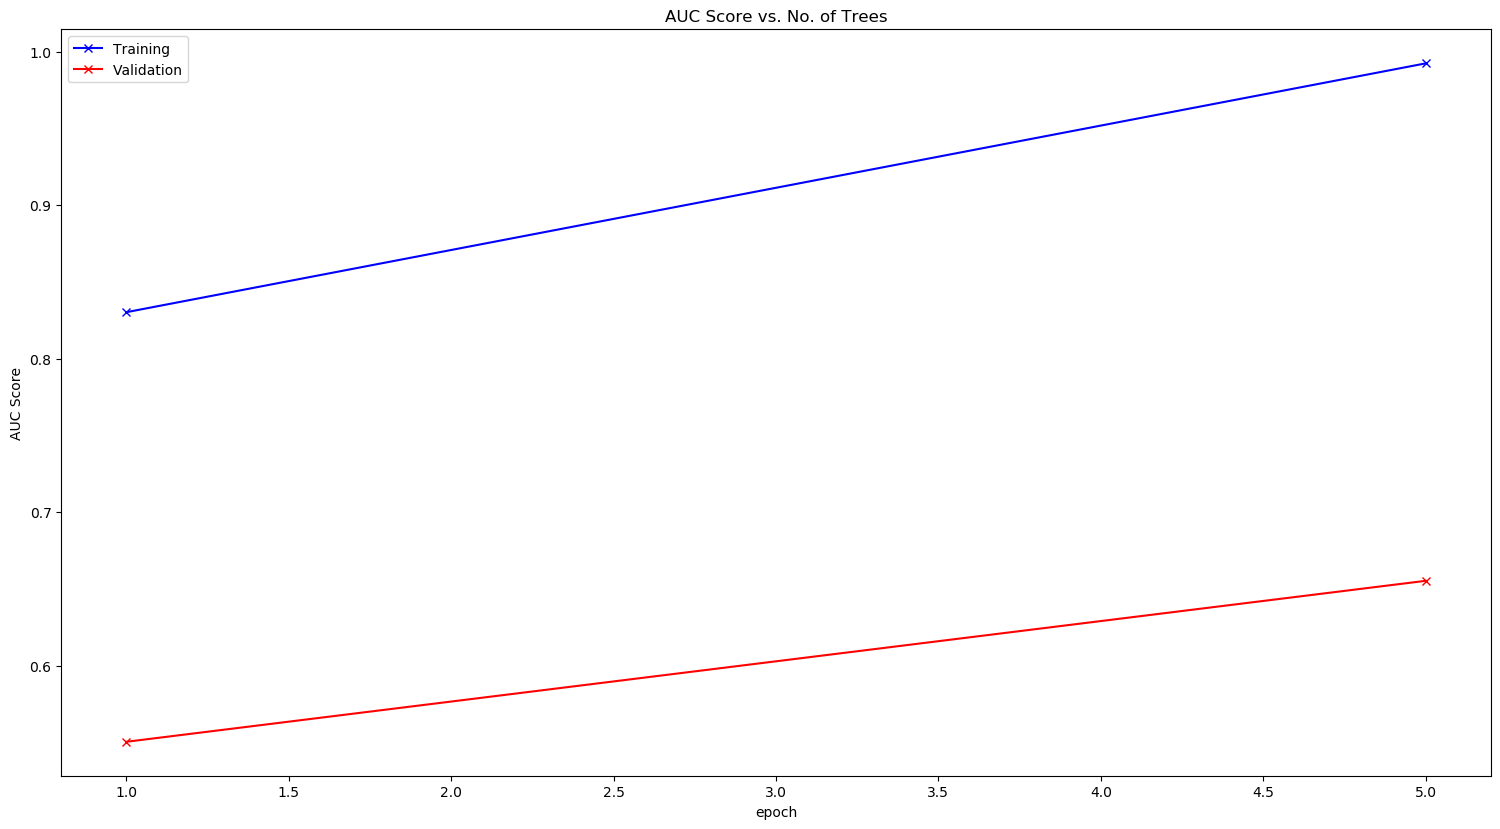
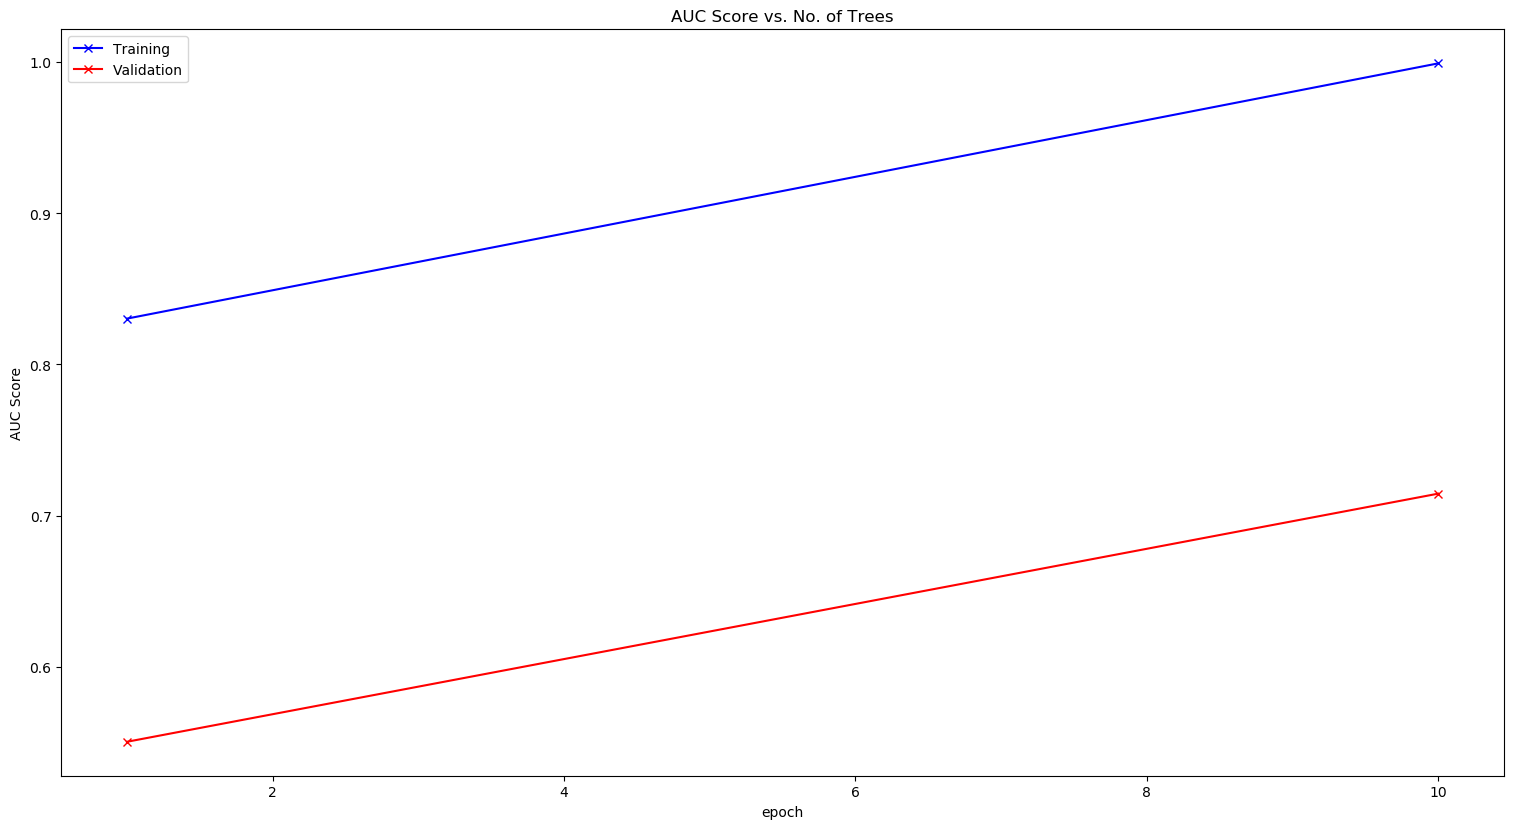
update results and  code

diff --git a/RandomForests/RF_Part2.py b/RandomForests/RF_Part2.py
@@ -382,6 +382,137 @@ opt_func = torch.optim.Adam
 
 
 
+
+import sklearn
+from sklearn.metrics import precision_score, recall_score, f1_score, roc_auc_score
+
+def compute_metrics_for_model(model, images, labels):
+
+	# unthresholded prob scores
+	y_score = model.predict_proba(images)
+	# thresholded classification predictions
+	y_pred = model.predict(images)
+
+	y_true = labels
+
+	y_true = OneHotEncoder().fit_transform(labels.reshape(-1,1)).toarray()
+
+	print(y_score.shape, y_true.shape)
+	assert(y_score.shape == y_true.shape)
+
+
+	ll_loss = log_loss(y_true, y_score)
+	prec_score = precision_score(labels, y_pred, average = 'micro')
+	recall_score = sklearn.metrics.recall_score(labels, y_pred, average = 'micro')
+	f1_score = sklearn.metrics.f1_score(labels, y_pred, average = 'micro')
+	roc_auc_score = sklearn.metrics.roc_auc_score(y_true, y_score, average = 'micro')
+
+	print("precision_score : ", prec_score)
+	print("recall_score : ", recall_score)
+	print("f1_score : ", f1_score)
+	print("ll_loss : ", ll_loss)
+
+	return ll_loss, prec_score, recall_score, f1_score, roc_auc_score
+
+
+
+
+# Training and Validation loss graph
+def plot_metrics(history):
+
+	## PLOTTING PRECISIONS
+
+	plt.clf()
+
+	train_prec_scores = [x.get('train_prec_score') for x in history]
+	test_prec_scores = [x['test_prec_score'] for x in history]
+
+	n_ests = [x['n_estimators'] for x in history]
+
+	plt.plot(n_ests, train_prec_scores, '-bx')
+	plt.plot(n_ests, test_prec_scores, '-rx')
+	
+	plt.xlabel('epoch')
+	plt.ylabel('prec_score')
+
+	plt.legend(['Training', 'Validation'])
+
+	plt.title('Precision vs. No. of Trees');
+
+	plt.savefig("RF Precisions v_s Num_Trees Part 2.png", bbox_inches='tight')
+
+
+
+	## PLOTTING RECALLS
+
+	plt.clf()
+
+	train_recalls = [x.get('train_recall_score') for x in history]
+	test_recalls = [x['test_recall_score'] for x in history]
+
+	n_ests = [x['n_estimators'] for x in history]
+
+	plt.plot(n_ests, train_recalls, '-bx')
+	plt.plot(n_ests, test_recalls, '-rx')
+	
+	plt.xlabel('epoch')
+	plt.ylabel('recall_score')
+
+	plt.legend(['Training', 'Validation'])
+
+	plt.title('Recall vs. No. of Trees');
+
+	plt.savefig("RF Recalls v_s Num_Trees Part 2.png", bbox_inches='tight')
+
+
+
+	## PLOTTING F1-Scores
+
+	plt.clf()
+
+	train_F1_scores = [x.get('train_f1_score') for x in history]
+	test_F1_scores = [x['test_f1_score'] for x in history]
+
+	n_ests = [x['n_estimators'] for x in history]
+
+	plt.plot(n_ests, train_F1_scores, '-bx')
+	plt.plot(n_ests, test_F1_scores, '-rx')
+	
+	plt.xlabel('epoch')
+	plt.ylabel('F1_score')
+
+	plt.legend(['Training', 'Validation'])
+
+	plt.title('F1_score vs. No. of Trees');
+
+	plt.savefig("RF F1_Scores v_s Num_Trees Part 2.png", bbox_inches='tight')
+
+
+
+	## PLOTTING AUC_Scores
+
+	plt.clf()
+
+	train_auc_scores = [x.get('train_roc_auc_score') for x in history]
+	test_auc_scores = [x['test_roc_auc_score'] for x in history]
+
+	n_ests = [x['n_estimators'] for x in history]
+
+	plt.plot(n_ests, train_auc_scores, '-bx')
+	plt.plot(n_ests, test_auc_scores, '-rx')
+	
+	plt.xlabel('epoch')
+	plt.ylabel('AUC Score')
+
+	plt.legend(['Training', 'Validation'])
+
+	plt.title('AUC Score vs. No. of Trees');
+
+	plt.savefig("RF AUC_Scores v_s Num_Trees Part 2.png", bbox_inches='tight')
+
+
+
+
 # Plotted the accuracy Graph
 def plot_accuracies(history):
 
@@ -450,6 +581,8 @@ for n_estimators in [1, 10, 25, 35, 40, 50, 100, 200, 500, 1000, 5000]:
 	#my_RF_model = TorchRandomForestClassifier(nb_trees = n_estimators, nb_samples=30, max_depth=max(5, n_estimators), bootstrap=True)
 	my_RF_model.n_estimators = n_estimators
 
+	print("\n\n\n", parameter_identifier , "\n")
+
 	history += fit_one_cycle(n_estimators, epochs, max_lr, my_RF_model, train_dl, valid_dl, 
 							  grad_clip=grad_clip, 
 							  weight_decay=weight_decay, 
@@ -457,6 +590,7 @@ for n_estimators in [1, 10, 25, 35, 40, 50, 100, 200, 500, 1000, 5000]:
 
 	plot_accuracies(history)
 	plot_losses(history)
+
 
 plot_accuracies(history)
 plot_losses(history)
